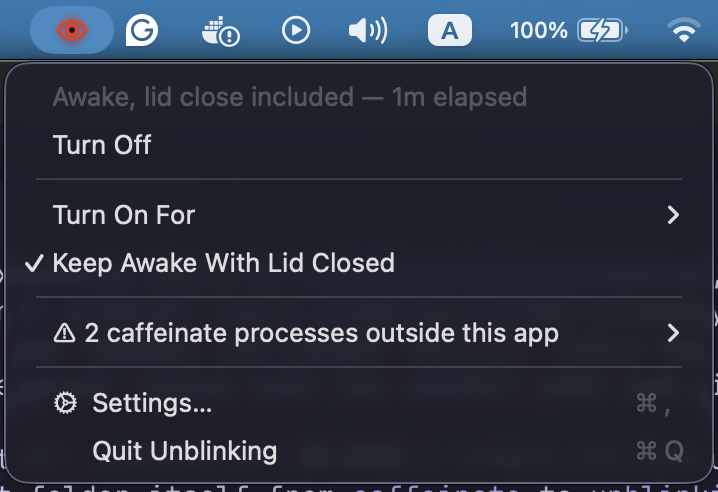
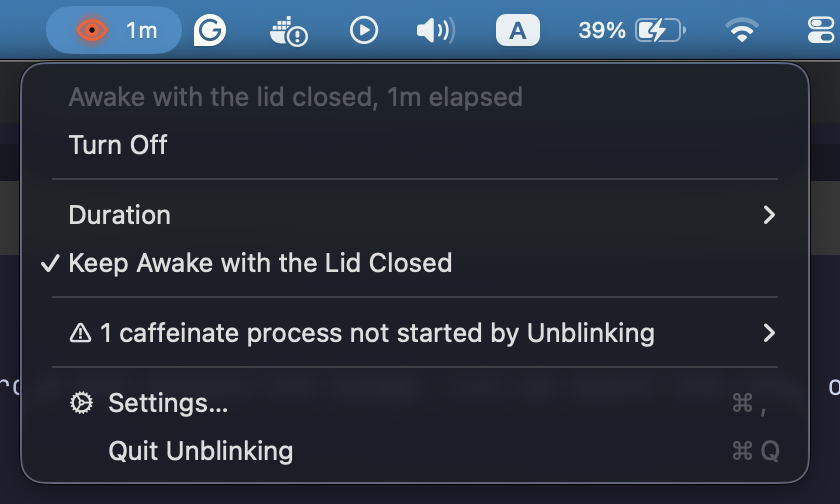
Correct the stale numbers and screenshots in the README
The tests badge still said 71 while the prose said 91: the count was updated
in one place and not the other, which is exactly the failure a badge is
supposed to prevent.

The screenshots were worse. All three predate the copy rewrite, so the hero
menu image advertised wording the app no longer has (Turn On For, Keep Awake
With Lid Closed, "caffeinate processes outside this app") and carried an em
dash in the status line. Recaptured from the shipped 1.1.0 build, so what
people see on the repo page is what they get.

Also fixes the Swift badge, which claimed 5.9 while SWIFT_VERSION is 5.0.
That implied a toolchain requirement that was never real.

Adds a release badge sourced from the GitHub API rather than hardcoded, so
the published version cannot drift out of date the way the test count just
did.

Every remaining claim checked against the build: macOS 13 against the
deployment target, Swift 5 against SWIFT_VERSION, universal against lipo,
91 against a real run.

diff --git a/README.md b/README.md
@@ -9,10 +9,11 @@
 The `caffeinate` command can't do that. This app can.
 
 [![macOS](https://img.shields.io/badge/macOS-13%2B-000000?logo=apple&logoColor=white)](https://www.apple.com/macos/)
-[![Swift](https://img.shields.io/badge/Swift-5.9-F05138?logo=swift&logoColor=white)](https://swift.org)
+[![Swift](https://img.shields.io/badge/Swift-5-F05138?logo=swift&logoColor=white)](https://swift.org)
 [![Apple Silicon](https://img.shields.io/badge/Apple%20Silicon-native-000000?logo=apple&logoColor=white)](https://support.apple.com/en-us/HT211814)
 [![License](https://img.shields.io/badge/License-MIT-blue.svg)](LICENSE)
-[![Tests](https://img.shields.io/badge/tests-71%20passing-brightgreen)](#testing)
+[![Release](https://img.shields.io/github/v/release/amr-ahmed-hamdy/unblinking?color=F05138)](https://github.com/amr-ahmed-hamdy/unblinking/releases/latest)
+[![Tests](https://img.shields.io/badge/tests-91%20passing-brightgreen)](#testing)
 
 <img src="assets/menu.png" width="480" alt="Unblinking menu bar app showing its menu">
 
